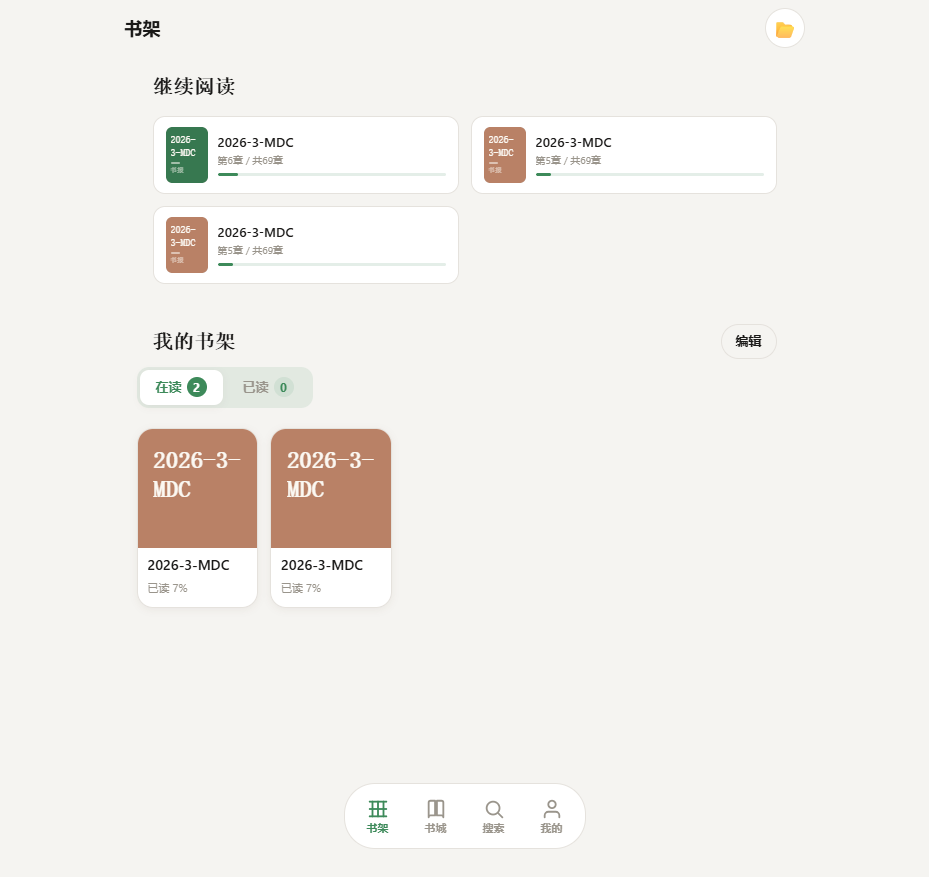
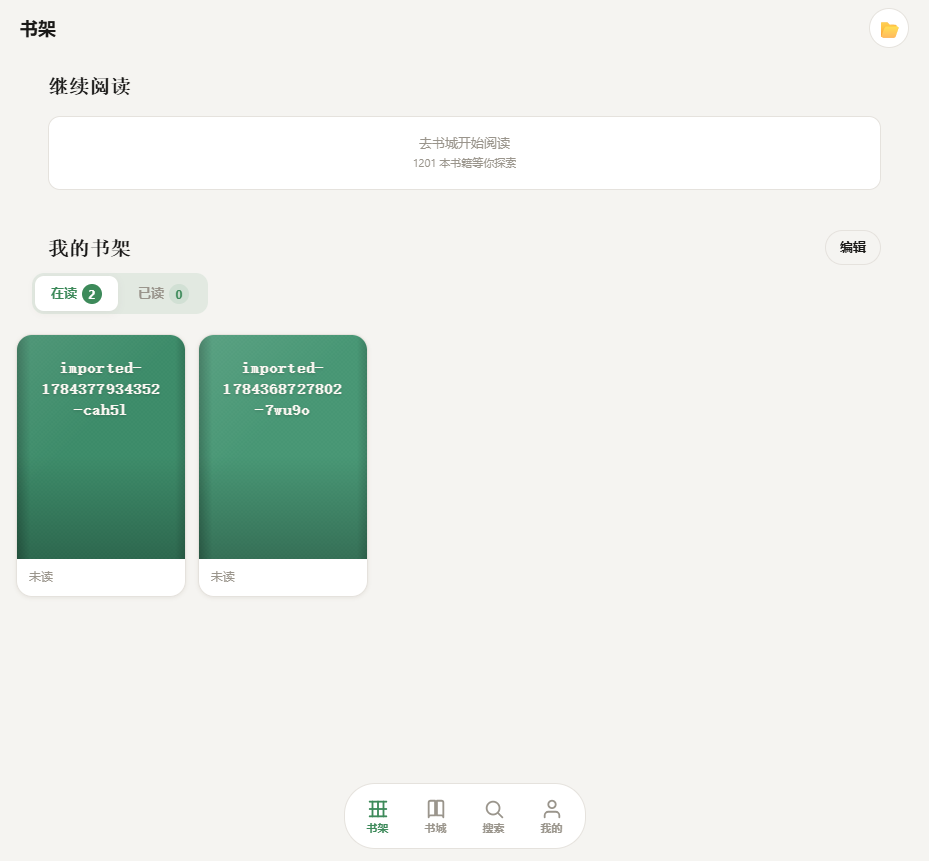
fix(mark-panel): 修复_detectReaderType仍误判为PDF — 用state.currentBookId()替代nav.goToPage判断
BKPdf._internal.nav.goToPage在EPUB页面也存在（JS文件全部加载），
导致EPUB场景仍被误判为PDF。改用state.currentBookId()返回非空值
作为唯一可靠的PDF阅读模式判断依据。同步修复_getBookId和open()
中的_pdfCurrentBookId引用改为currentBookId()调用。

diff --git a/src/static/js/mark-panel/mark-panel.js b/src/static/js/mark-panel/mark-panel.js
@@ -40,7 +40,7 @@
                 MarkPanel._bookTitle = (win.BKRenderer && win.BKRenderer._currentBookTitle) || '';
             } else {
                 var _s = win.BKPdf && win.BKPdf._internal && win.BKPdf._internal.state;
-                var _bookId = _s && _s._pdfCurrentBookId;
+                var _bookId = _s && typeof _s.currentBookId === 'function' ? _s.currentBookId() : null;
                 if (_bookId && win.__bkBooks) {
                     for (var bi = 0; bi < win.__bkBooks.length; bi++) {
                         var b = win.__bkBooks[bi];
@@ -130,13 +130,12 @@
         // ─── 内部方法 ──────────────────────────────────────────────────
 
         _detectReaderType: function () {
-            // PDF 阅读器：BKPdf._internal 存在且包含真实的 state（非空对象）
-            // EPUB 阅读器：BKPdf._internal 不存在，或为空对象 {}
+            // 判断当前是否在 PDF 阅读模式
+            // BKPdf._internal 在 EPUB 页也存在（JS 文件都加载了），但不能仅凭其存在判断
+            // 可靠方式：state.currentBookId() 返回非空值 → 正在阅读 PDF
             var internal = win.BKPdf && win.BKPdf._internal;
-            var isPdf = internal && (
-                (internal.state && internal.state._pdfCurrentBookId) ||
-                (internal.nav && internal.nav.goToPage)
-            );
+            var state = internal && internal.state;
+            var isPdf = state && typeof state.currentBookId === 'function' && state.currentBookId();
             MarkPanel._readerType = isPdf ? 'pdf' : 'epub';
         },
 
@@ -764,7 +763,7 @@
                     win.BKHighlight.saveNote(item.id, newNote);
                 } else if (MarkPanel._readerType === 'pdf') {
                     var _s = win.BKPdf && win.BKPdf._internal && win.BKPdf._internal.state;
-                    var _bookId = _s && _s._pdfCurrentBookId;
+                    var _bookId = (_s && typeof _s.currentBookId === 'function') ? _s.currentBookId() : null;
                     if (_s && _bookId && _s.setHighlightNote) _s.setHighlightNote(_bookId, item.id, newNote);
                 }
                 // 更新本地缓存

diff --git a/src/static/js/mark-panel/adapters/pdf-adapter.js b/src/static/js/mark-panel/adapters/pdf-adapter.js
@@ -26,7 +26,7 @@
 
     function _getBookId() {
         var s = _getS();
-        return s ? s._pdfCurrentBookId : null;
+        return (s && typeof s.currentBookId === 'function') ? s.currentBookId() : null;
     }
 
     win.BK.MarkPanelAdapters.PdfAdapter = {
